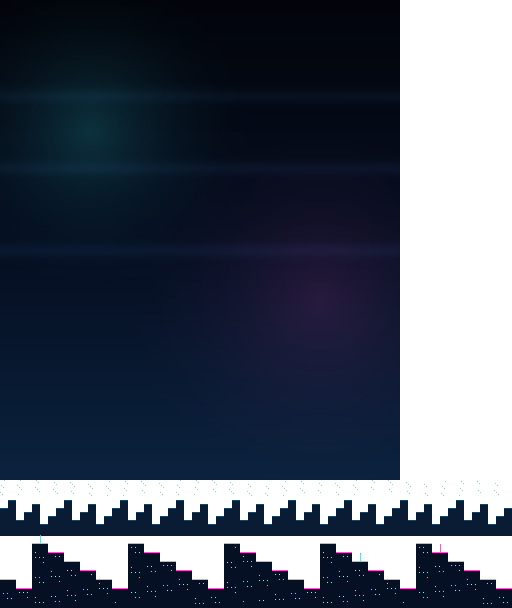
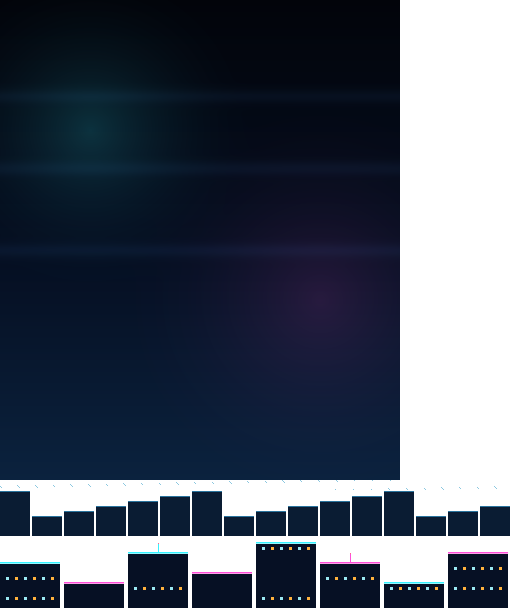
第一轮试玩美术替换:Kenney Space Shooter Redux(CC0)入列——自机/敌机DART/CROSS/Boss/自机弹换装,圆弹米弹重绘(白芯亮环辉光),背景阶梯放大(远景8→32px/栋、城市16→64px/栋、霓虹顶缘加粗、窗3x3);新增tools/assets/apply_kenney_art.py,基准由gen_stg_neon重生成后叠加;包4085504字节<4MiB

Changed region(s): [[0.0, 0.7812, 1.0, 1.0], [0.9062, 0.8125, 1.0, 0.875], [0.875, 0.8125, 0.9062, 0.8438]]

diff --git a/Main/tools/assets/apply_kenney_art.py b/Main/tools/assets/apply_kenney_art.py
@@ -1,0 +1,361 @@
+#!/usr/bin/env python3
+# -*- coding: utf-8 -*-
+"""apply_kenney_art.py —— 用 Kenney Space Shooter Redux (CC0) 贴图替换游戏的霓虹几何素材
+
+第一轮试玩反馈（2026-10-31）：手工几何的飞机/子弹丑，背景阶梯太小。
+本脚本在 gen_stg_neon.py 生成的基线上就地替换（同名、同尺寸、同 manifest 槽位）：
+
+    ships.png    自机=playerShip1_blue（蓝→青），DART=enemyRed2（暖色→琥珀），
+                 CROSS=enemyGreen2（绿→霓虹绿）；动画帧 = ±8° 摆动，4 帧循环
+    boss.png     enemyBlack4（暗部染暗品红）缩到 74px，6 帧各转 60°
+    pshot.png    laserBlue01（蓝→青）缩到 6x24
+    icons.png    第 0 格换自机缩图，其余格保留
+    bul16/8.png  重绘圆弹：白芯 + 饱和亮环 + 外辉光（弹幕标准画法）
+    rice20.png   重绘米弹：椭圆截面胶囊，16 方向
+    bg_layers.png天空区原样保留；远景带 8px/栋 → 32px/栋，城市带 16px/栋 → 64px/栋，
+                 楼加高、霓虹顶缘加粗、窗变大（七寸屏可读）
+
+来源：https://opengameart.org/content/space-shooter-redux （Kenney.nl，CC0，
+署名可选；正式发布时按 LICENSES.md 记一行）。--src 指向解包后的 PNG 目录。
+
+用法：
+    python3 Main/tools/assets/apply_kenney_art.py --src <SSR-PNG 目录>
+之后跑 pack_assets.py 重打包。无随机数，同输入同像素。
+"""
+
+import argparse
+import colorsys
+import os
+import sys
+
+from PIL import Image
+
+HERE = os.path.dirname(os.path.abspath(__file__))
+MAIN = os.path.dirname(os.path.dirname(HERE))
+NEON = os.path.join(MAIN, "assets", "neon")
+
+CYAN = (0x35, 0xF2, 0xFF)
+MAGENTA = (0xFF, 0x4F, 0xD8)
+AMBER = (0xFF, 0xB2, 0x3E)
+GREEN = (0x8D, 0xFF, 0x6A)
+BULLET_COLORS = (CYAN, MAGENTA, AMBER, GREEN)
+WHITE = (255, 255, 255)
+
+FAR_FILL = (0x0A, 0x1C, 0x33)
+FAR_EDGE = (0x2A, 0x74, 0x9E)          # 比原来的 0x16,0x44,0x66 提亮
+CITY_FILL = (0x06, 0x10, 0x24)
+BOSS_TINT = (0x2A, 0x0A, 0x24)         # gen_stg_neon 的 NAVY_M
+
+BG_SKY_W, BG_SKY_H = 400, 480
+BG_FAR_W, BG_FAR_H = 512, 56
+BG_CITY_W, BG_CITY_H = 512, 72
+BG_FAR_Y = BG_SKY_H
+BG_CITY_Y = BG_SKY_H + BG_FAR_H
+
+
+def clamp8(v):
+    return 0 if v < 0 else (255 if v > 255 else int(v))
+
+
+def mix(a, b, t):
+    return (clamp8(a[0] + (b[0] - a[0]) * t),
+            clamp8(a[1] + (b[1] - a[1]) * t),
+            clamp8(a[2] + (b[2] - a[2]) * t))
+
+
+def shift_hue(im, lo, hi, target_h, sat_mul=1.0, light_add=0.0):
+    """把 hue 落在 [lo,hi]（度）的像素换到 target_h；其余不动。wrap 由调用方拆区间。"""
+    px = im.load()
+    w, h = im.size
+    for y in range(h):
+        for x in range(w):
+            r, g, b, a = px[x, y]
+            if a == 0:
+                continue
+            hh, ll, ss = colorsys.rgb_to_hls(r / 255.0, g / 255.0, b / 255.0)
+            deg = hh * 360.0
+            if lo <= deg <= hi and ss > 0.25:
+                rr, gg, bb = colorsys.hls_to_rgb(target_h / 360.0, min(0.82, ll + light_add),
+                                                 min(1.0, ss * sat_mul))
+                px[x, y] = (clamp8(rr * 255), clamp8(gg * 255), clamp8(bb * 255), a)
+    return im
+
+
+def recolor_blue_to_cyan(im):
+    return shift_hue(im, 190, 245, 187.0, 1.25, 0.06)
+
+
+def recolor_warm_to_amber(im):
+    im = shift_hue(im, 0, 45, 36.0, 1.15, 0.08)
+    return shift_hue(im, 315, 360, 36.0, 1.15, 0.08)
+
+
+def recolor_green(im):
+    return shift_hue(im, 70, 165, 108.0, 1.5, 0.12)
+
+
+def tint_dark_magenta(im):
+    """暗部染暗品红（Boss 主题色），亮部保留白/灰。"""
+    px = im.load()
+    w, h = im.size
+    for y in range(h):
+        for x in range(w):
+            r, g, b, a = px[x, y]
+            if a == 0:
+                continue
+            luma = (r * 299 + g * 587 + b * 114) / 255000.0
+            if luma < 0.62:
+                t = (0.62 - luma) / 0.62
+                c = mix((r, g, b), BOSS_TINT, 0.85 * t)
+                px[x, y] = (c[0], c[1], c[2], a)
+    return im
+
+
+def trim(im):
+    box = im.getbbox()
+    return im.crop(box) if box else im
+
+
+def fit(im, cell, margin=2):
+    """等比缩到 (cell-2*margin) 内、居中放进 cell x cell。"""
+    target = cell - 2 * margin
+    w, h = im.size
+    s = min(target / w, target / h)
+    nw, nh = max(1, round(w * s)), max(1, round(h * s))
+    im = im.resize((nw, nh), Image.BICUBIC)
+    out = Image.new("RGBA", (cell, cell), (0, 0, 0, 0))
+    out.paste(im, ((cell - nw) // 2, (cell - nh) // 2), im)
+    return out
+
+
+def hard_alpha(im):
+    """xrgb 色键槽要求 alpha 只有 0/255；半透明边缘按 128 阈值二值化。"""
+    px = im.load()
+    w, h = im.size
+    for y in range(h):
+        for x in range(w):
+            r, g, b, a = px[x, y]
+            px[x, y] = (r, g, b, 255) if a >= 128 else (0, 0, 0, 0)
+    return im
+
+
+def rot(im, deg):
+    return im.rotate(deg, resample=Image.BICUBIC, expand=False) if deg else im
+
+
+def do_ships(src):
+    player = recolor_blue_to_cyan(trim(Image.open(os.path.join(src, "playerShip1_blue.png")).convert("RGBA")))
+    dart = recolor_warm_to_amber(trim(Image.open(os.path.join(src, "Enemies", "enemyRed2.png")).convert("RGBA")))
+    cross = recolor_green(trim(Image.open(os.path.join(src, "Enemies", "enemyGreen2.png")).convert("RGBA")))
+
+    sheet = Image.new("RGBA", (128, 96), (0, 0, 0, 0))
+    sheet.paste(hard_alpha(fit(player, 32)), (0, 0), hard_alpha(fit(player, 32)))
+    dfit = hard_alpha(fit(dart, 32))
+    cfit = hard_alpha(fit(cross, 32))
+    for k, deg in enumerate((-8, 0, 8, 0)):
+        d = hard_alpha(rot(dfit, deg))
+        c = hard_alpha(rot(cfit, deg))
+        sheet.paste(d, (32 * k, 32), d)
+        sheet.paste(c, (32 * k, 64), c)
+    sheet.save(os.path.join(NEON, "ships.png"))
+    print("ships.png  128x96 ok")
+
+
+def do_boss(src):
+    boss = tint_dark_magenta(trim(Image.open(os.path.join(src, "Enemies", "enemyBlack4.png")).convert("RGBA")))
+    w, h = boss.size
+    s = 74.0 / max(w, h)
+    boss = boss.resize((max(1, round(w * s)), max(1, round(h * s))), Image.BICUBIC)
+    sheet = Image.new("RGBA", (192, 288), (0, 0, 0, 0))
+    for k in range(6):
+        f = rot(boss, k * 60) if k else boss.copy()
+        sheet.paste(f, (96 * k + (96 - f.width) // 2, (288 // 2 - f.height) // 2), f)
+    sheet.save(os.path.join(NEON, "boss.png"))
+    print("boss.png   192x288 ok")
+
+
+def do_pshot(src):
+    laser = recolor_blue_to_cyan(Image.open(os.path.join(src, "Lasers", "laserBlue01.png")).convert("RGBA"))
+    laser = laser.resize((6, 24), Image.LANCZOS)
+    laser.save(os.path.join(NEON, "pshot.png"))
+    print("pshot.png  6x24 ok")
+
+
+def do_icons(src):
+    path = os.path.join(NEON, "icons.png")
+    icons = Image.open(path).convert("RGBA")
+    player = recolor_blue_to_cyan(trim(Image.open(os.path.join(src, "playerShip1_blue.png")).convert("RGBA")))
+    icon = hard_alpha(fit(player, 16, margin=1))
+    icons.paste(icon, (0, 0), icon)
+    icons.save(path)
+    print("icons.png  64x16 ok")
+
+
+def round_bullet(cell, ring, glow_a):
+    """白芯 + 亮环 + 外辉光的圆弹，半直 return Image RGBA。"""
+    im = Image.new("RGBA", (cell, cell), (0, 0, 0, 0))
+    px = im.load()
+    c = (cell - 1) / 2.0
+    core = cell * 0.135            # 16px→2.16
+    ring_o = cell * 0.325          # 16px→5.2
+    glow_o = cell * 0.475          # 16px→7.6
+    for y in range(cell):
+        for x in range(cell):
+            r = ((x - c) ** 2 + (y - c) ** 2) ** 0.5
+            if r > glow_o:
+                continue
+            if r <= core:
+                col, a = WHITE, 255
+            elif r < core * 1.35:
+                col, a = mix(WHITE, ring, (r - core) / (core * 0.35)), 255
+            elif r <= ring_o:
+                col, a = ring, 255
+            elif r < ring_o * 1.15:
+                col, a = mix(ring, ring, 0.0), 255 if r < ring_o * 1.08 else 160
+            else:
+                a = int(glow_a * ((1.0 - (r - ring_o * 1.15) / (glow_o - ring_o * 1.15)) ** 1.5))
+                col = ring
+            px[x, y] = (col[0], col[1], col[2], clamp8(a))
+    return im
+
+
+def do_bul16():
+    sheet = Image.new("RGBA", (64, 16), (0, 0, 0, 0))
+    for i, col in enumerate(BULLET_COLORS):
+        b = round_bullet(16, col, 150)
+        sheet.paste(b, (16 * i, 0), b)
+    sheet.save(os.path.join(NEON, "bul16.png"))
+    print("bul16.png  64x16 ok")
+
+
+def do_bul8():
+    sheet = Image.new("RGBA", (32, 8), (0, 0, 0, 0))
+    for i, col in enumerate(BULLET_COLORS):
+        b = round_bullet(8, col, 140)
+        sheet.paste(b, (8 * i, 0), b)
+    sheet.save(os.path.join(NEON, "bul8.png"))
+    print("bul8.png   32x8 ok")
+
+
+def rice_cell(cell, ring, deg):
+    im = Image.new("RGBA", (cell, cell), (0, 0, 0, 0))
+    px = im.load()
+    c = cell / 2.0
+    th = deg * 3.14159265358979 / 180.0
+    ux, uy = __import__("math").cos(th), -__import__("math").sin(th)
+    core_b = cell * 0.055
+    ring_b = cell * 0.135
+    glow_b = cell * 0.21
+    half = cell * 0.33
+    for y in range(cell):
+        for x in range(cell):
+            dx, dy = x + 0.5 - c, y + 0.5 - c
+            u = dx * ux + dy * uy
+            v = -dx * uy + dy * ux
+            au, bv = abs(u) / (half + 0.001), abs(v)
+            if au >= 1.0 or bv > glow_b:
+                continue
+            if bv <= core_b:
+                col, a = WHITE, 255
+            elif bv < core_b * 1.4:
+                col, a = mix(WHITE, ring, (bv - core_b) / (core_b * 0.4)), 255
+            elif bv <= ring_b:
+                col, a = ring, 255
+            elif bv < ring_b * 1.18:
+                col, a = ring, 200
+            else:
+                a = int(150 * (1.0 - (bv - ring_b * 1.18) / (glow_b - ring_b * 1.18)))
+                col = ring
+            if au > 0.72:
+                a = int(a * (1.0 - (au - 0.72) / 0.28) ** 0.7)
+            px[x, y] = (col[0], col[1], col[2], clamp8(a))
+    return im
+
+
+def do_rice20():
+    sheet = Image.new("RGBA", (320, 80), (0, 0, 0, 0))
+    for row, col in enumerate(BULLET_COLORS):
+        for d in range(16):
+            b = rice_cell(20, col, d * 22.5)
+            sheet.paste(b, (20 * d, 20 * row), b)
+    sheet.save(os.path.join(NEON, "rice20.png"))
+    print("rice20.png 320x80 ok")
+
+
+def do_bg_layers():
+    path = os.path.join(NEON, "bg_layers.png")
+    old = Image.open(path).convert("RGBA")
+    im = Image.new("RGBA", (512, 608), (0, 0, 0, 0))
+    im.paste(old.crop((0, 0, BG_SKY_W, BG_SKY_H)), (0, 0))
+    px = im.load()
+
+    # 远景带：32 像素一栋（原 8），高 20..45，顶缘亮线
+    for bx in range(0, BG_FAR_W, 32):
+        i = bx // 32
+        h = 20 + ((i * 37 + 11) % 6) * 5
+        for y in range(BG_FAR_H - h, BG_FAR_H):
+            for x in range(bx, min(bx + 30, BG_FAR_W)):
+                px[x, BG_FAR_Y + y] = FAR_FILL + (255,)
+        for x in range(bx, min(bx + 30, BG_FAR_W)):
+            px[x, BG_FAR_Y + BG_FAR_H - h] = FAR_EDGE + (255,)
+    for i in range(70):                                    # 烘焙小星（楼顶空隙）
+        sx = (i * 53 + 17) % BG_FAR_W
+        sy = (i * 29 + 5) % (BG_FAR_H - 46)
+        if px[sx, BG_FAR_Y + sy][3] == 0:
+            px[sx, BG_FAR_Y + sy] = (0x8C, 0xC8, 0xE0, 255)
+
+    # 城市带：64 像素一栋（原 16），高 26..66；霓虹顶缘 2px + 亮芯 1px、大窗 3x3
+    for bx in range(0, BG_CITY_W, 64):
+        i = bx // 64
+        h = 26 + ((i * 53 + 7) % 5) * 10
+        top = BG_CITY_Y + BG_CITY_H - h
+        for y in range(BG_CITY_H - h, BG_CITY_H):
+            for x in range(bx, min(bx + 60, BG_FAR_W)):
+                px[x, BG_CITY_Y + y] = CITY_FILL + (255,)
+        edge = CYAN if (i & 1) == 0 else MAGENTA
+        for x in range(bx, min(bx + 60, BG_FAR_W)):
+            px[x, top] = edge + (255,)
+            px[x, top + 1] = mix(edge, WHITE, 0.45) + (255,)
+        if (i % 3) == 2 and h <= 60:                       # 天线
+            for y in range(top - 9, top):
+                px[bx + 30, y] = edge + (255,)
+            px[bx + 30, top - 9] = (0xFF, 0x6A, 0x8A, 255)
+        wy = top + 5
+        while wy < BG_CITY_Y + BG_CITY_H - 5:
+            wx = bx + 6
+            while wx < min(bx + 54, BG_FAR_W):
+                if ((i * 13 + (wx - bx) * 7 + (wy - top) * 5) % 9) < 3:
+                    wc = AMBER if ((wx + wy) & 1) == 0 else (0x9A, 0xE8, 0xF2)
+                    for yy in range(3):
+                        for xx in range(3):
+                            px[wx + xx, wy + yy] = wc + (255,)
+                wx += 9
+            wy += 10
+    im.save(path)
+    print("bg_layers.png 512x608 ok")
+
+
+def main():
+    ap = argparse.ArgumentParser()
+    ap.add_argument("--src", required=True, help="Space Shooter Redux 解包后的 PNG 目录")
+    args = ap.parse_args()
+    src = args.src
+    for rel in ("playerShip1_blue.png", os.path.join("Enemies", "enemyRed2.png"),
+                os.path.join("Enemies", "enemyGreen2.png"), os.path.join("Enemies", "enemyBlack4.png"),
+                os.path.join("Lasers", "laserBlue01.png")):
+        if not os.path.exists(os.path.join(src, rel)):
+            print("缺源文件:", rel, file=sys.stderr)
+            return 1
+    do_ships(src)
+    do_boss(src)
+    do_pshot(src)
+    do_icons(src)
+    do_bul16()
+    do_bul8()
+    do_rice20()
+    do_bg_layers()
+    return 0
+
+
+if __name__ == "__main__":
+    sys.exit(main())
